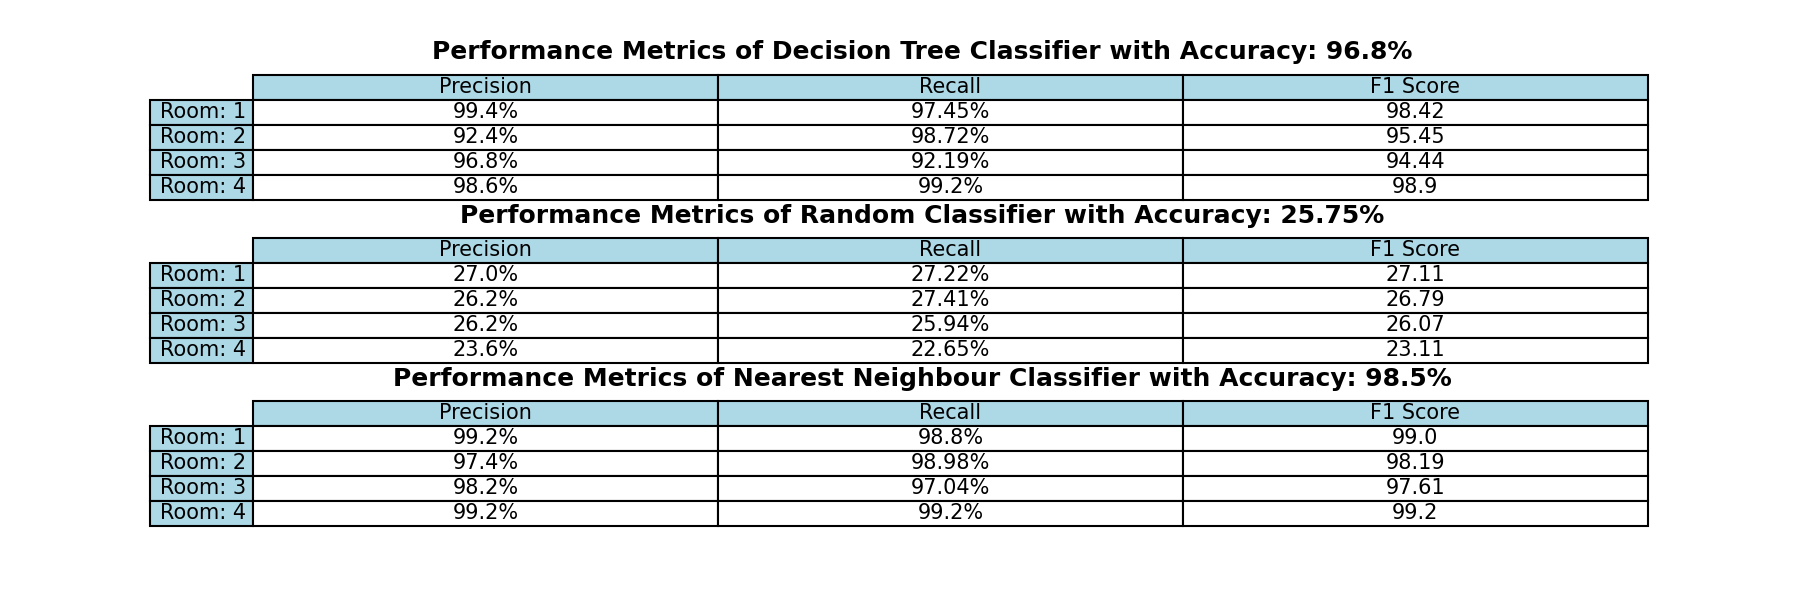
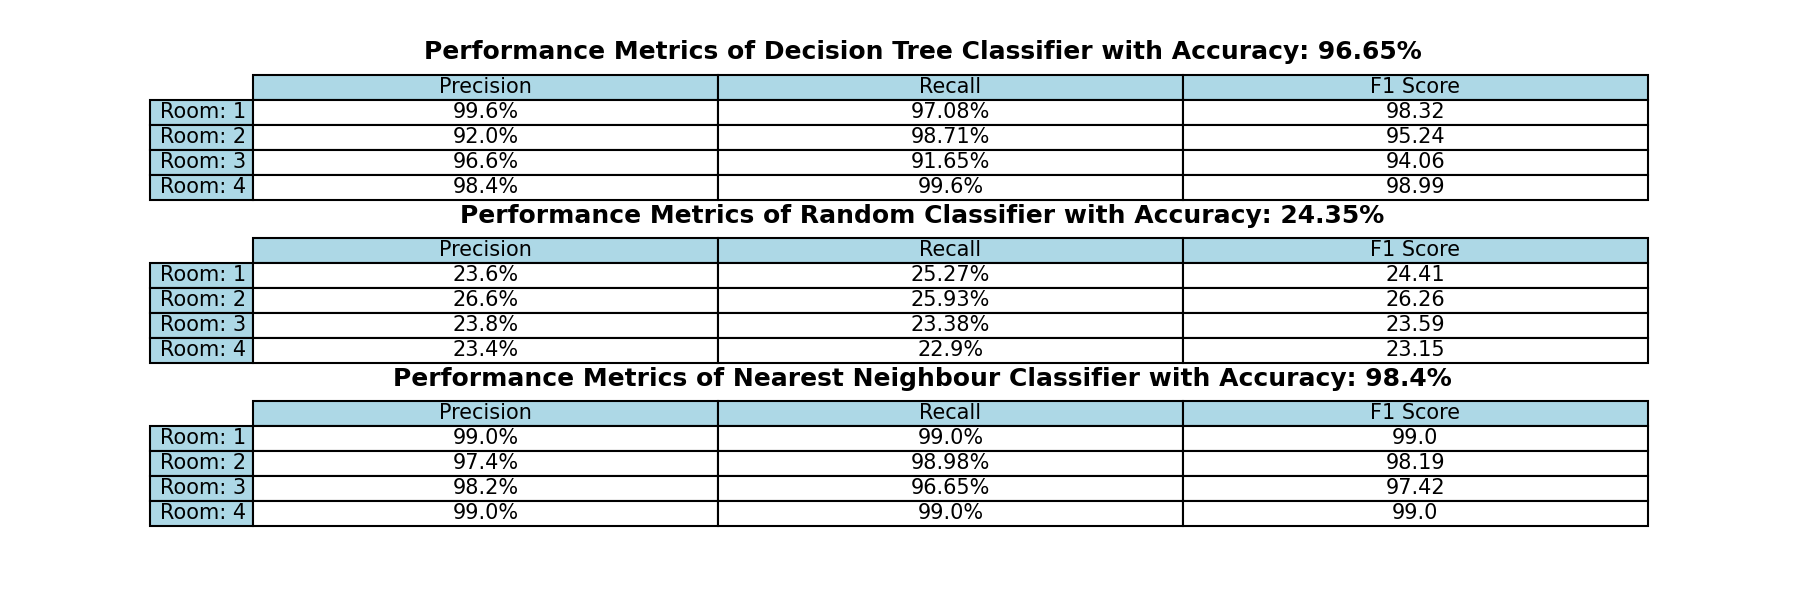
final Commit from Omar

diff --git a/main.py b/main.py
@@ -24,13 +24,14 @@ def main():
      tree_model = Decision_Tree_Classifier.Tree(dataset, max_depth = depth)
      tree_model.show()
 
-  if mode == "metrics":
+  elif mode == "metrics":
      print("Tree depth:", depth)
      print("Updating Metrics in the figures folder")
      benchmark = TB.Model_Comparison_TB(dataset, 10, depth, Decision_Tree_Classifier.Tree, Other_Classifiers.RandomClassifier, Other_Classifiers.NNClassifier)
      benchmark.all_metrics()
+     print("All Metric Figures updated in the ./figures directory")
      
-  if mode == "depth_benchmark":
+  elif mode == "depth_benchmark":
     print("Tree depth ignored, running range [4,70]")
     if dataset_path == "WIFI_db/noisy_dataset.txt":
       hyperParam = TB.Depth_Hyperparameter_Tuning(dataset, Decision_Tree_Classifier.Tree, name = "noisy")
@@ -39,10 +40,12 @@ def main():
       
     hyperParam.run()
     
-  if mode == "norm":
+  elif mode == "normal":
+    print("Generating Normal Distribution ...")
     benchmark = TB.Model_Comparison_TB(dataset, 10, depth, Decision_Tree_Classifier.Tree, Other_Classifiers.RandomClassifier, Other_Classifiers.NNClassifier)
     benchmark.plotNorm()
-  
+  else:
+    print("Invalid operating_mode")
 
 
 if __name__ == '__main__':

diff --git a/Testbenches.py b/Testbenches.py
@@ -287,7 +287,7 @@ class Model_Comparison_TB():
                           np.array( [ "{}%".format(round(elem * 100, 2)) for elem in r ] ) , 
                           np.array( [ "{}".format(round(elem * 100, 2)) for elem in f ] )]
   
-            print("Unshown Values: Macro Precision: {a}, Macro Recall: {b}, Macro F1 Score: {c}".format(a=macrop, b=macro_r, c=macro_f))
+            print("Unshown Values: Macro Precision: {a}, Macro Recall: {b}, Macro F1 Score: {c}".format(a=macrop, b=macro_r, c=macrof))
             ax1[plotNum].set_axis_off() 
             table = ax1[plotNum].table( 
                 cellText = np.transpose( np.array( table_data ) ),  
